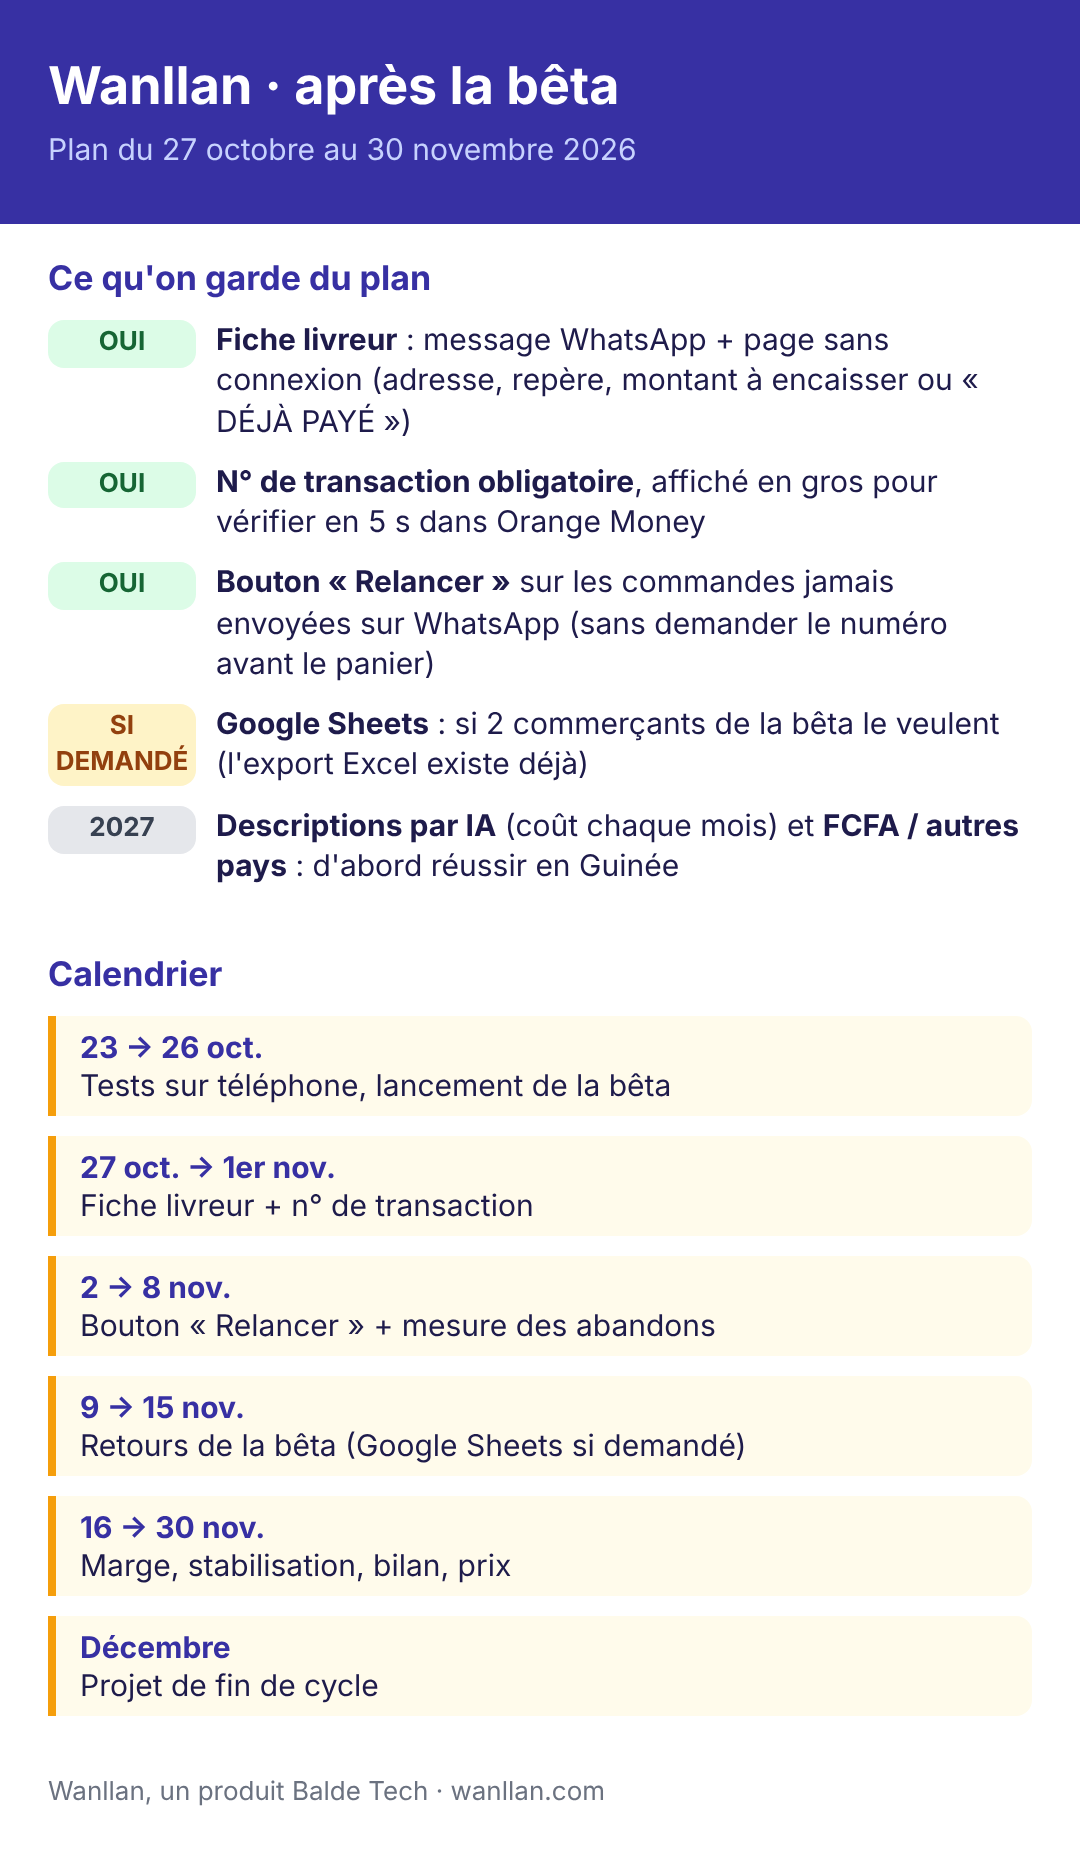
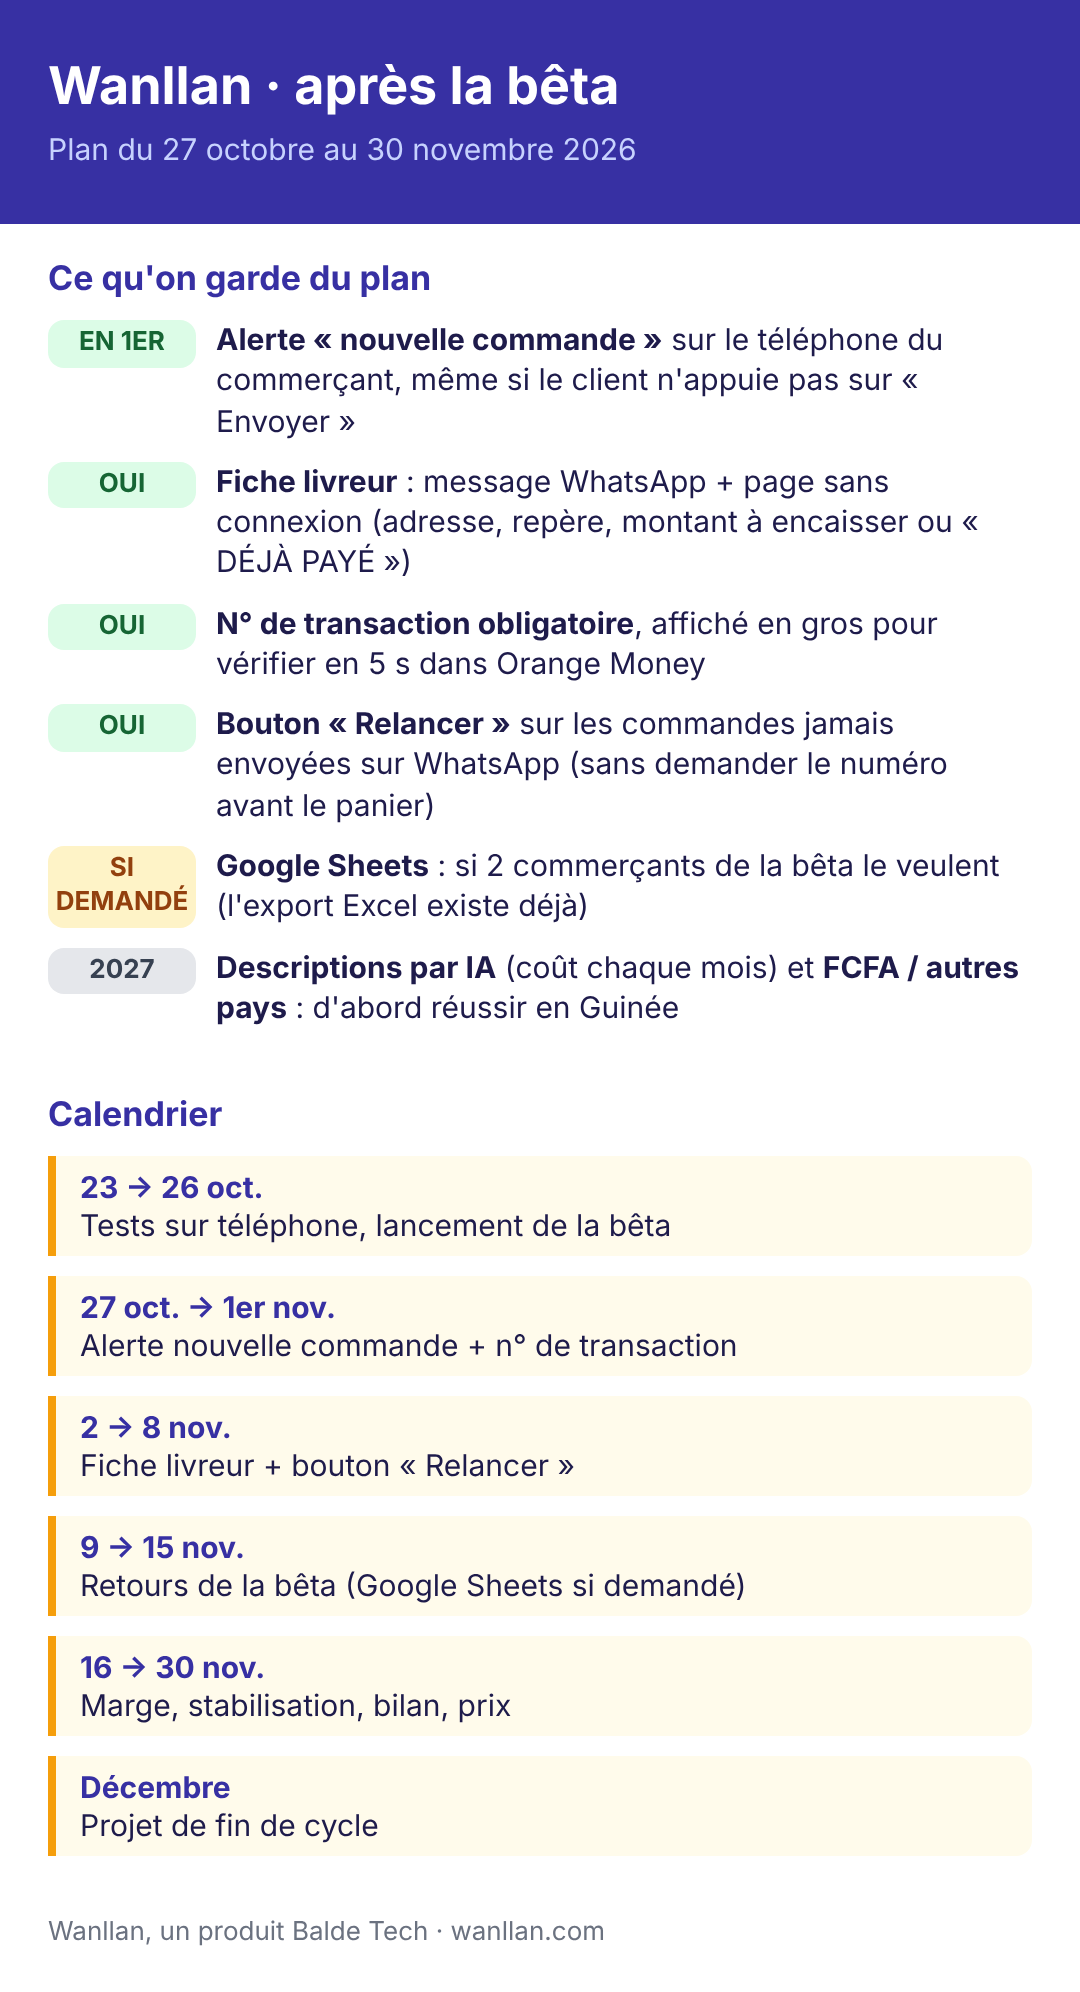
Feuille de route : alerte « nouvelle commande » en premier
Aujourd'hui le commerçant n'est prévenu que si le client appuie sur
« Envoyer » dans WhatsApp. Notification de l'app installée en priorité
(27 octobre → 1er novembre) ; fiche livreur et « Relancer » ensuite.

Claude-Session: https://claude.ai/code/session_01QK2U4wKdDEESVGjkep23Ng

diff --git a/replica/roadmap-apres-beta.md b/replica/roadmap-apres-beta.md
@@ -8,7 +8,8 @@ Rythme : environ 1 h par jour en semaine et 3 h le week-end. Décembre reste ré
 
 | Chantier du plan | Ce qui existe déjà | Décision |
 | --- | --- | --- |
-| 1. Fiche course livreur | adresse, mode de livraison (zone), repère (Réglages > Commande), montant à encaisser, messages WhatsApp prêts | **Oui, en premier** : un message « livreur » + une page `/course/{jeton}` sans connexion |
+| 0. Alerte « nouvelle commande » (ajout du 22 octobre) | la commande arrive sur WhatsApp **seulement si le client appuie sur « Envoyer »** ; sinon elle attend dans Wanllan (badge « WhatsApp non envoyé ») | **Oui, en premier** : notification sur le téléphone du commerçant (app installée), gratuite, sans Meta. Android tout de suite ; iPhone seulement si Wanllan est installé sur l'écran d'accueil. **Non** à l'API WhatsApp Business de Meta pour l'instant (vérification d'entreprise, numéro dédié, coût par message) et **non** aux robots WhatsApp non officiels (numéro bloqué, contraire aux règles de WhatsApp) |
+| 1. Fiche course livreur | adresse, mode de livraison (zone), repère (Réglages > Commande), montant à encaisser, messages WhatsApp prêts | **Oui, juste après l'alerte** : un message « livreur » + une page `/course/{jeton}` sans connexion |
 | 2. ID de transaction Mobile Money | champ « N° de transaction » **facultatif** à l'envoi de la capture | **Oui** : le rendre obligatoire, l'afficher en gros chez le commerçant et dans le message WhatsApp, avec une aide visuelle (exemple de SMS fabriqué par nous, sans données réelles) |
 | 4. Paniers abandonnés | la commande est créée **avant** WhatsApp, avec le numéro du client ; badge « WhatsApp non envoyé » | **Oui, version courte** : un bouton « Relancer » sur ces commandes. **Non** au numéro demandé avant le panier : c'est une friction de plus pour l'acheteur, contraire au principe n° 2 du plan |
 | 3. Google Sheets en temps réel | export Excel (CSV) avec filtres | **Seulement si 2 commerçants de la bêta le demandent** (script Google Apps Script + envoi en file d'attente) |
@@ -27,8 +28,8 @@ Rythme : environ 1 h par jour en semaine et 3 h le week-end. Décembre reste ré
 | Semaine | Travail | Livrable |
 | --- | --- | --- |
 | **Ven. 23 → dim. 26 oct.** | Tests sur téléphone, préparation et lancement de la bêta | bêta ouverte |
-| **27 oct. → 1er nov.** | Fiche course livreur (message + page livreur), puis ID de transaction obligatoire | PR « Livreur et paiement vérifié » |
-| **2 → 8 nov.** | Bouton « Relancer » ; mesure du taux « WhatsApp non envoyé » | PR « Relance » |
+| **27 oct. → 1er nov.** | Alerte « nouvelle commande » sur le téléphone du commerçant, puis n° de transaction obligatoire | PR « Alertes et paiement vérifié » |
+| **2 → 8 nov.** | Fiche course livreur (message + page livreur) et bouton « Relancer » ; mesure du taux « WhatsApp non envoyé » | PR « Livreur et relance » |
 | **9 → 15 nov.** | Retours de la bêta ; Google Sheets seulement si demandé | corrections bêta |
 | **16 → 30 nov.** | Marge, stabilisation, bilan de la bêta | bilan + décision sur les prix |
 | **Décembre** | Projet de fin de cycle (pas de Wanllan, sauf panne) | — |

diff --git a/CLAUDE.md b/CLAUDE.md
@@ -77,8 +77,8 @@ Chaque skill écrit dans `replica/`. Règle : on clone **les fonctionnalités**,
 - Le compte GitHub de Mohamed est bloqué pour facturation : GitHub Actions ne tourne pas (le serveur n'en dépend pas).
 - Reste à faire : vérifier les instantanés automatiques Lightsail (3 h) et le nom du compte Orange Money affiché, créer la surveillance UptimeRobot, finir le test de la boutique Balde-tech sur téléphone (commande, aperçu WhatsApp).
 - **À finaliser après la bêta** (plan du 22 octobre, détail et calendrier : `replica/roadmap-apres-beta.md`, version PNG à côté) :
-  1. du 27 octobre au 1er novembre : **fiche course livreur** (message WhatsApp + page `/course/{jeton}` sans connexion) et **n° de transaction Mobile Money obligatoire**, mis en avant chez le commerçant ;
-  2. du 2 au 8 novembre : bouton **« Relancer »** sur les commandes jamais envoyées sur WhatsApp, et mesure des abandons (pas de numéro demandé avant le panier) ;
+  1. du 27 octobre au 1er novembre : **alerte « nouvelle commande »** sur le téléphone du commerçant (notification de l'app installée : aujourd'hui, le commerçant n'est prévenu que si le client appuie sur « Envoyer » dans WhatsApp) et **n° de transaction Mobile Money obligatoire** ;
+  2. du 2 au 8 novembre : **fiche course livreur** (message WhatsApp + page `/course/{jeton}` sans connexion) et bouton **« Relancer »** sur les commandes jamais envoyées sur WhatsApp (pas de numéro demandé avant le panier) ;
   3. du 9 au 15 novembre : retours de la bêta ; **Google Sheets** seulement si 2 commerçants le demandent ;
   4. reporté à 2027 : descriptions par IA (coût mensuel) et FCFA / autres pays.
 - Suite : bêta du 26 octobre, puis brique 2 (caisse et stock hors ligne) en janvier 2027.
